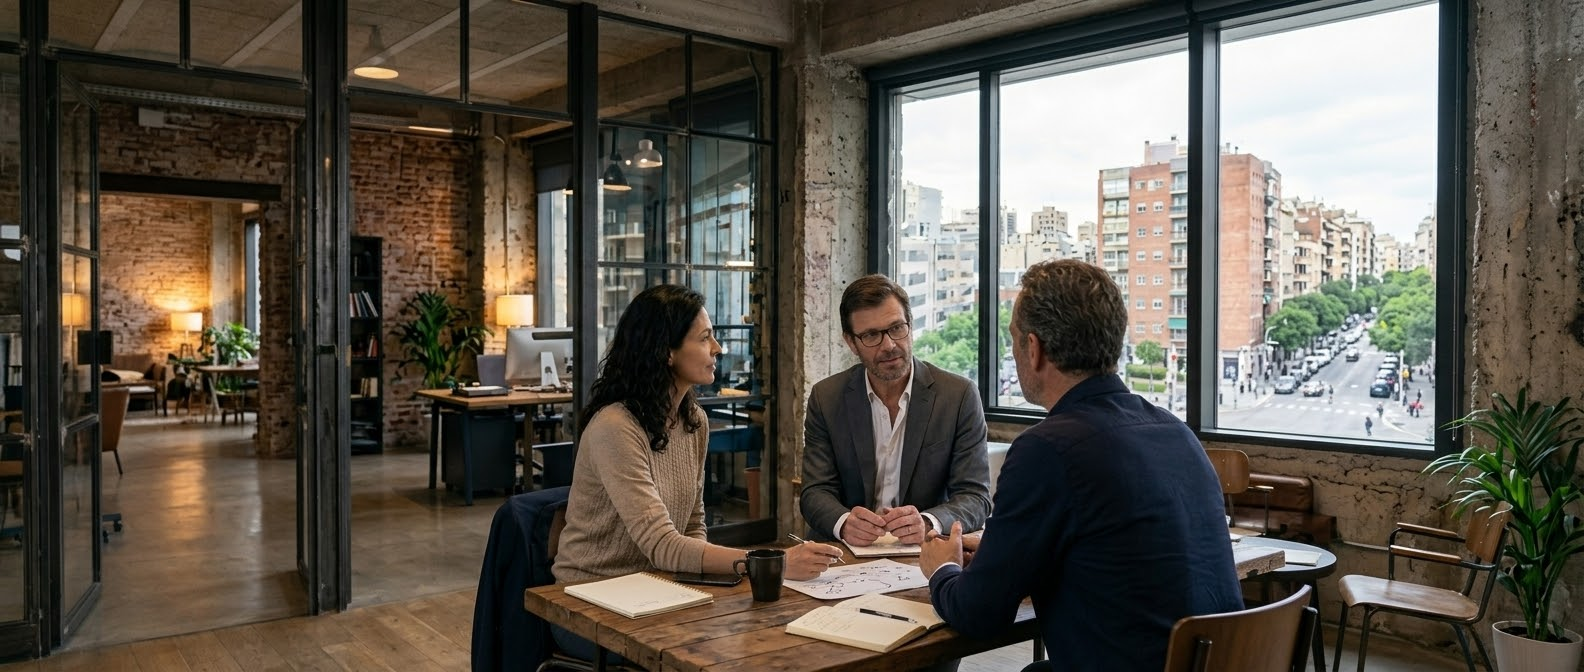
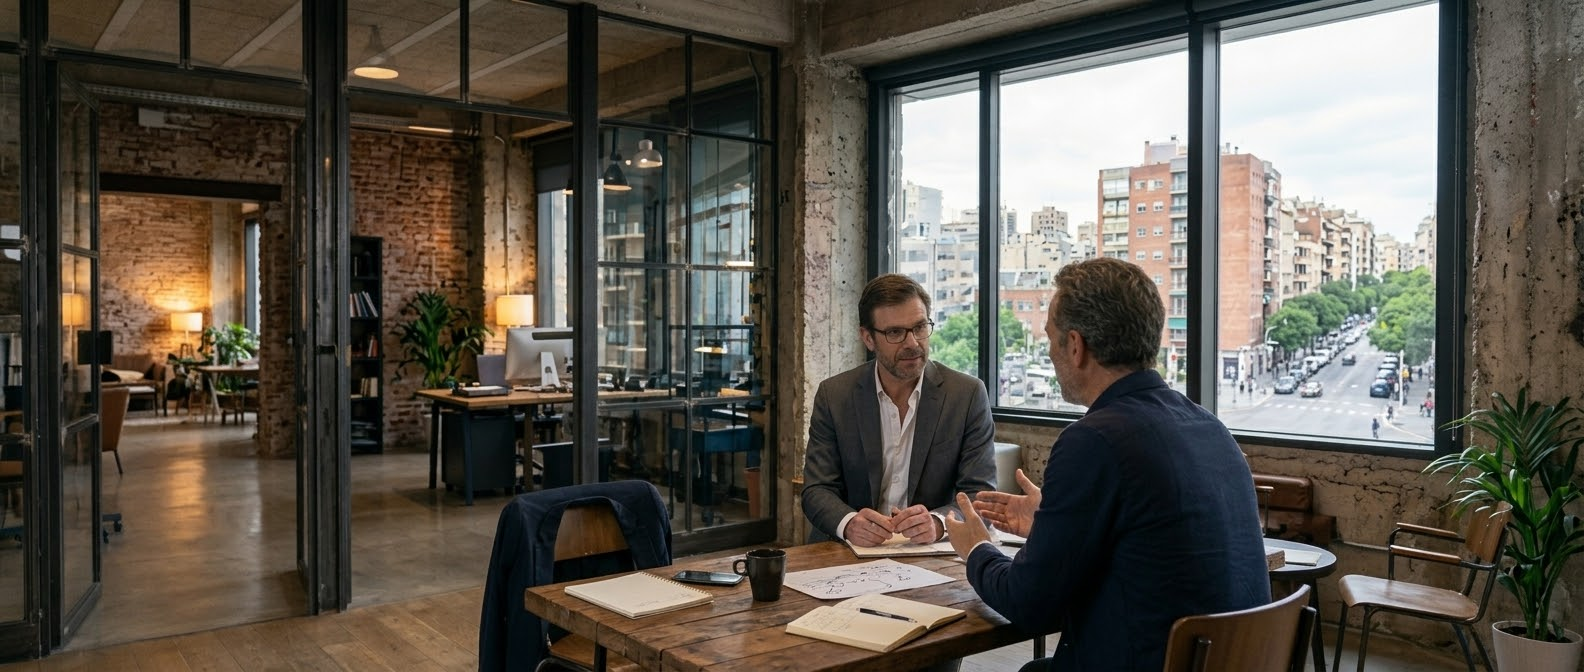
Add files via upload

diff --git a/README.md b/README.md
@@ -218,6 +218,7 @@ Editorial rules from the October 2026 audit, enforced by `npm run verify`:
 - 2026-10-24 (v52): /advisory gets colour and icons. Engagement terms as six white icon tiles on a sand band; What to expect as three icon cards; the COO field memo on a dark band in the middle of the page; tick and cross marks on the in-scope and out-of-scope lists. New Icon component (line icons in the petrol accent).
 - 2026-10-24 (v53): GEO and mobile pass. llms.txt and llms-full.txt updated (serial entrepreneur and CEO, 20 years, Munich and Brussels, recent research on cognitive preferences, IE and Prof. Deuschel in the research text, retired slogan removed, contact wording) and llms-full.txt now carries the three case studies, generated from src/data/cases.ts like the homepage. JSON-LD: Book node, work locations, extra knowsAbout, broken #one-to-one anchor fixed. Sitemap lastmod dates. Mobile: invisible 44px tap areas on text links for touch screens, larger menu buttons, shorter opening photo on phones so the headline is in the first view.
 - 2026-10-24 (v54): Client voices. Three verbatim LinkedIn recommendation excerpts (Wilhelm Taht, Scopely; Albrecht von der Recke, fonYou; Sergi Estragues, Griffith Foods) with small greyscale portraits, from src/data/testimonials.ts. Homepage strip "What clients say." after the case studies, one quote (Wilhelm) above the closing invite on /advisory, and the quotes in llms-full.txt. No review schema, since Google ignores self-published reviews.
+- 2026-10-24 (v55): New opening photo (hero-office.jpg, same file name, 1584×672) on the homepage and /advisory. Crop centred on larger screens and at 64% on phones so both faces stay clear of the text panel; neutral alt text.
 - 2026-10-16 (v19): Favicon Direction A: Newsreader capital M (wght 650, opsz 24, outlined from the site font) in a squircle tile, inverting in dark browser chrome.
 - 2026-10-16 (v18): /advisory and /about aligned with the homepage: diagonal paper gradient heroes (not animated), serif headings, hairline grids, scroll reveal with stagger, rounded path cards on /advisory, rounded hover rows in the FAQ, warm closing panel on /about. FAQ stays at six questions.
 - 2026-10-16 (v17): The Round session photo (`src/assets/images/the-round-session.jpg`) in The Round card, 16:9 crop at 35% height, rounded-2xl, caption. Site now carries two photographs.
